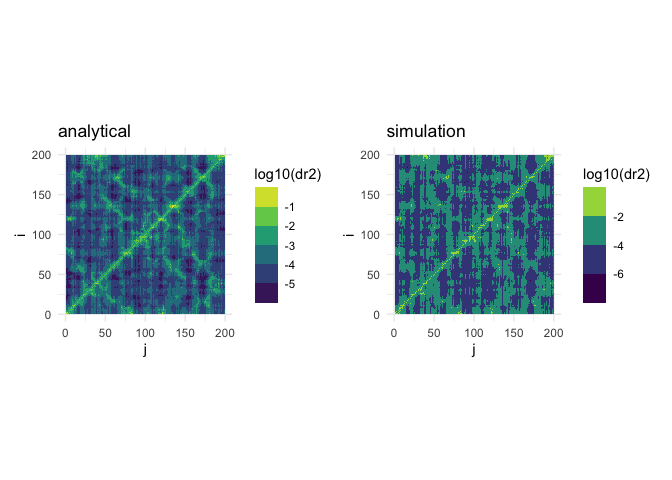
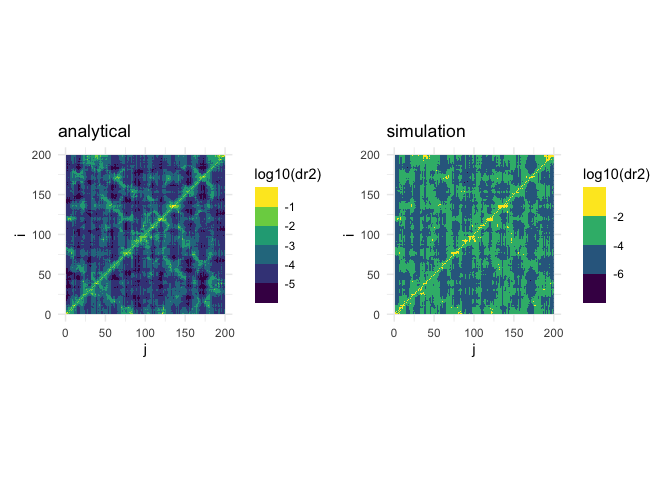
Update README for mutenm package
- Change library(penm) to library(mutenm)
- Update install instructions to jechave/mutenm
- Remove double mutation scanning section (admrs/sdmrs removed)
- Regenerate README.md and figures

🤖 Generated with [Claude Code](https://claude.com/claude-code)

Changed region(s): [[0.5625, 0.3125, 0.9062, 0.6562], [0.375, 0.375, 0.4375, 0.4375]]

diff --git a/README.md b/README.md
@@ -1,35 +1,33 @@
-penm package
+mutenm package
 ================
 Julian Echave
 26/09/2022
 
 <!-- README.md is generated from README.Rmd. Please edit that file -->
 
-The `penm` package contains functions to build Elastic Network Models
-(ENM) of proteins and to perturb them; `penm` stands for Perturbing
+The `mutenm` package contains functions to build Elastic Network Models
+(ENM) of proteins and to perturb them; `mutenm` stands for Mutating
 Elastic Network Models.
 
 # Overview
 
 In short:
 
--   `bio3d::read.pdb()`: Set up a **pdb** protein object.
--   `set_enm()`: Set up a `penm` **prot** object, containing protein and
-    its ENM info.
--   `amrs()`and `smrs()`: perform single-mutation scans to calculate
-    mutation-response matrices.
--   `admrs()`and `sdmrs()`: perform double-mutation scans to calculate
-    compensation matrices.
+- `bio3d::read.pdb()`: Set up a **pdb** protein object.
+- `set_enm()`: Set up a `mutenm` **prot** object, containing protein and
+  its ENM info.
+- `amrs()`and `smrs()`: perform single-mutation scans to calculate
+  mutation-response matrices.
 
 # Installation
 
-Install packages `penm` (this package) and `jefuns` (miscelaneous
-functions, some of which `penm` uses).
+Install packages `mutenm` (this package) and `jefuns` (miscelaneous
+functions, some of which `mutenm` uses).
 
     # install.packages("devtools")
 
     devtools::install_github("jechave/jefuns")
-    devtools::install_github("jechave/penm")
+    devtools::install_github("jechave/mutenm")
 
 # Getting started
 
@@ -38,17 +36,26 @@ load the following packages: `tidyverse`, `patchwork`, and `jefuns`.
 
 ``` r
 library(tidyverse)  
-#> ── Attaching packages ─────────────────────────────────────── tidyverse 1.3.1 ──
-#> ✔ ggplot2 3.3.6      ✔ purrr   0.3.4 
-#> ✔ tibble  3.1.8      ✔ dplyr   1.0.10
-#> ✔ tidyr   1.2.1      ✔ stringr 1.4.0 
-#> ✔ readr   2.1.2      ✔ forcats 0.5.1
+#> ── Attaching core tidyverse packages ──────────────────────── tidyverse 2.0.0 ──
+#> ✔ dplyr     1.1.4     ✔ readr     2.1.4
+#> ✔ forcats   1.0.0     ✔ stringr   1.5.1
+#> ✔ ggplot2   3.5.1     ✔ tibble    3.2.1
+#> ✔ lubridate 1.9.3     ✔ tidyr     1.3.0
+#> ✔ purrr     1.0.2     
 #> ── Conflicts ────────────────────────────────────────── tidyverse_conflicts() ──
-#> ✖ dplyr::filter() masks stats::filter()
-#> ✖ dplyr::lag()    masks stats::lag()
+#> ✖ readr::edition_get()   masks testthat::edition_get()
+#> ✖ tidyr::expand()        masks mutenm::expand()
+#> ✖ dplyr::filter()        masks mutenm::filter(), stats::filter()
+#> ✖ purrr::is_null()       masks testthat::is_null()
+#> ✖ dplyr::lag()           masks stats::lag()
+#> ✖ readr::local_edition() masks testthat::local_edition()
+#> ✖ dplyr::matches()       masks tidyr::matches(), testthat::matches()
+#> ✖ tidyr::pack()          masks mutenm::pack()
+#> ✖ tidyr::unpack()        masks mutenm::unpack()
+#> ℹ Use the conflicted package (<http://conflicted.r-lib.org/>) to force all conflicts to become errors
 library(patchwork)  
 library(jefuns)
-library(penm)
+library(mutenm)
 ```
 
 ## Set up the ENM for a protein
@@ -60,17 +67,13 @@ full ENM analysis.
 ``` r
 pdb <-  bio3d::read.pdb("data-raw/2XWRa.pdb") # read a pdb file
 #>    PDB has ALT records, taking A only, rm.alt=TRUE
-wt <- set_enm(pdb, node = "calpha", model = "anm", d_max = 10.5, frustrated = FALSE)
+wt <- set_enm(pdb, node = "calpha", model = "anm", d_max = 10.5)
 ```
 
 `wt` created here by `set_enm()` is an object of class *prot*. In this
-example, network nodes are placed at
-![C\_\alpha](https://latex.codecogs.com/png.image?%5Cdpi%7B110%7D&space;%5Cbg_white&space;C_%5Calpha "C_\alpha")
-coordinates, the model used is Bahar’s Anisotropic Network Model
-(`model = "anm"`) with a cut-off distance to define contacts of
-`d_max = 10.5`. `frustrated` indicates whether to add frustrations to
-the model (it defaults to `FALSE`, it may be ommited from the list of
-arguments).
+example, network nodes are placed at $C_\alpha$ coordinates, the model
+used is Bahar’s Anisotropic Network Model (`model = "anm"`) with a
+cut-off distance to define contacts of `d_max = 10.5`.
 
 The object `wt` created above is a list that contains several
 components:
@@ -78,11 +81,10 @@ components:
 ``` r
 str(wt) # show structure of the object created
 #> List of 6
-#>  $ param:List of 4
-#>   ..$ node      : chr "calpha"
-#>   ..$ model     : chr "anm"
-#>   ..$ d_max     : num 10.5
-#>   ..$ frustrated: logi FALSE
+#>  $ param:List of 3
+#>   ..$ node : chr "calpha"
+#>   ..$ model: chr "anm"
+#>   ..$ d_max: num 10.5
 #>  $ nodes:List of 5
 #>   ..$ nsites  : int 199
 #>   ..$ site    : int [1:199] 1 2 3 4 5 6 7 8 9 10 ...
@@ -108,19 +110,18 @@ str(wt) # show structure of the object created
 #>  - attr(*, "class")= chr [1:2] "prot" "list"
 ```
 
--   `wt$param` is a list of model parameters
--   `wt$nodes` has information on number of sites, site-indexes,
-    B-factors, and cartesian coordinates of the nodes
--   `wt$graph` is a graph representation of the elastic network (used
-    internally)
--   `wt$eij` is a matrix of unit vectors directed along contacts (used
-    internally)
--   `wt$kmat` is the network’s matrix (also called the Hessian,
-    Laplacian, or Kirchhoff matrix)
--   `wt$nma` has various properties obtained from a so called
-    “normal-mode analysis”: mode index, eigenvalues (`evalue`), matrix
-    of eigenvectors (`umat`), and the ENM’s variance covariance matrix
-    (`cmat`).
+- `wt$param` is a list of model parameters
+- `wt$nodes` has information on number of sites, site-indexes,
+  B-factors, and cartesian coordinates of the nodes
+- `wt$graph` is a graph representation of the elastic network (used
+  internally)
+- `wt$eij` is a matrix of unit vectors directed along contacts (used
+  internally)
+- `wt$kmat` is the network’s matrix (also called the Hessian, Laplacian,
+  or Kirchhoff matrix)
+- `wt$nma` has various properties obtained from a so called “normal-mode
+  analysis”: mode index, eigenvalues (`evalue`), matrix of eigenvectors
+  (`umat`), and the ENM’s variance covariance matrix (`cmat`).
 
 ## Single-site mutation-response scanning
 
@@ -156,16 +157,16 @@ p_analytical + p_simulation
 
 There are three possible responses that can be calculated:
 
--   `response = "dr2"` (structural deformations): Matrix element
-    `m[i,j]` represents the square distance between site `i` of the
-    wild-type protein and site `i` of the mutant, averaged over
-    mutations at site `j`.
--   `response = "de2"` (deformation energy): `m[i,j]` is the mechanical
-    energy needed to movoe site `i` back to its unperturbed position,
-    averaged over mutations at site `j`).
--   `response = "df2"` (force): `m[i,j]` is the square-length of the
-    mechanical force vector acting on site `i`, averaged over mutations
-    at site `j`).
+- `response = "dr2"` (structural deformations): Matrix element `m[i,j]`
+  represents the square distance between site `i` of the wild-type
+  protein and site `i` of the mutant, averaged over mutations at site
+  `j`.
+- `response = "de2"` (deformation energy): `m[i,j]` is the mechanical
+  energy needed to movoe site `i` back to its unperturbed position,
+  averaged over mutations at site `j`).
+- `response = "df2"` (force): `m[i,j]` is the square-length of the
+  mechanical force vector acting on site `i`, averaged over mutations at
+  site `j`).
 
 ``` r
 # Calculate analytical mutation-response matrix for deformations (response = "dr2")
@@ -215,84 +216,3 @@ p_dr2 + p_de2 + p_df2
 ```
 
 ![](man/figures/README-unnamed-chunk-7-1.png)<!-- -->
-
-## Double-site mutation-response scanning
-
-Double mutation-response scanning produces a so-called “compensation
-matrix”. This matrix can be obtained using `admrs()` (analytical
-method), or `sdmrs()` (simulation method). An element `d[i,j]` of the
-matrix obtained represents the maximum compensation due to mutations at
-`j` of an original mutation at `i`. If `option = "mean_max"`is used, the
-average over `i` is returned. If
-`option =`max_max`, then the maximum over mutations at`i\` is returned.
-
-``` r
-# Calculate analytical double mutation-response matrix for deformations (response = "dr2")
-
-D_analytical <- admrs(wt, mut_dl_sigma = 0.3, mut_sd_min = 1, option = "mean_max", response = "dr2")
-
-# Calculate simulation mutation-response matrix for deformations (response = "dr2")
-
-D_simulation <- sdmrs(wt, nmut = 5, mut_dl_sigma = 0.3, mut_sd_min = 1, option = "mean_max", response = "dr2", seed = 1024)
-
-# Plot both matrices side by side
-
-p_analytical <- plot_matrix(log10(D_analytical), value_name = "log10(Dij)") + 
-  ggtitle("analytical")
-
-p_simulation <- plot_matrix(log10(D_simulation), value_name = "log10(Dij)") + 
-  ggtitle("simulation")
-
-p_analytical + p_simulation 
-```
-
-![](man/figures/README-unnamed-chunk-8-1.png)<!-- --> \### Compensation
-matrices averaged or maximized over initial mutation
-
-Site `j` (columns of the compensaton matrix) are candidate “rescue”
-sites, therefore the compensation matrix looks for the maximum over
-possible mutations. Site `i` is the originally mutated site. To
-eliminate the *specific* mutation at `i`, there are two ways: maximize
-(i.e. pick the mutation at `i` that is most easily compensated by a
-mutation at `j`) or average. These two options are implemented:
-
-``` r
-# Calculate analytical mutation-response matrix for deformations (response = "dr2")
-
-Dij_mean_max <- admrs(wt, mut_dl_sigma = 0.3, mut_sd_min = 1, option = "mean_max", response = "dr2")
-Dij_max_max <- admrs(wt, mut_dl_sigma = 0.3, mut_sd_min = 1, option = "max_max", response = "dr2")
-
-# Plot matrices 
-
-p_mean_max <- plot_matrix(log10(Dij_mean_max), value_name = "log10(Dij)") +  ggtitle("mean_max") 
-p_max_max <- plot_matrix(log10(Dij_max_max), value_name = "log10(Dij)") +  ggtitle("max_max") 
-
-p_mean_max + p_max_max
-```
-
-![](man/figures/README-unnamed-chunk-9-1.png)<!-- -->
-
-### Compensation matrices for structure, energy, and force
-
-As above, three compensation matrices can be calculated.
-
-``` r
-# Calculate analytical mutation-response matrix for deformations (response = "dr2")
-
-dr2ij <- admrs(wt, mut_dl_sigma = 0.3, mut_sd_min = 1, option = "mean_max", response = "dr2")
-de2ij <- admrs(wt, mut_dl_sigma = 0.3, mut_sd_min = 1, option = "mean_max", response = "de2")
-df2ij <- admrs(wt, mut_dl_sigma = 0.3, mut_sd_min = 1, option = "mean_max", response = "df2")
-
-# Plot matrices 
-
-p_dr2 <- plot_matrix(log10(dr2ij), value_name = "log10(dr2)") +  ggtitle("structure") +
-  theme(legend.position = "none")
-p_de2 <- plot_matrix(log10(de2ij), value_name = "log10(de2)") +  ggtitle("energy") +
-  theme(legend.position = "none")
-p_df2 <- plot_matrix(log10(df2ij), value_name = "log10(df2)") +  ggtitle("force") +
-  theme(legend.position = "none")
-
-p_dr2 + p_de2 + p_df2 
-```
-
-![](man/figures/README-unnamed-chunk-10-1.png)<!-- -->
